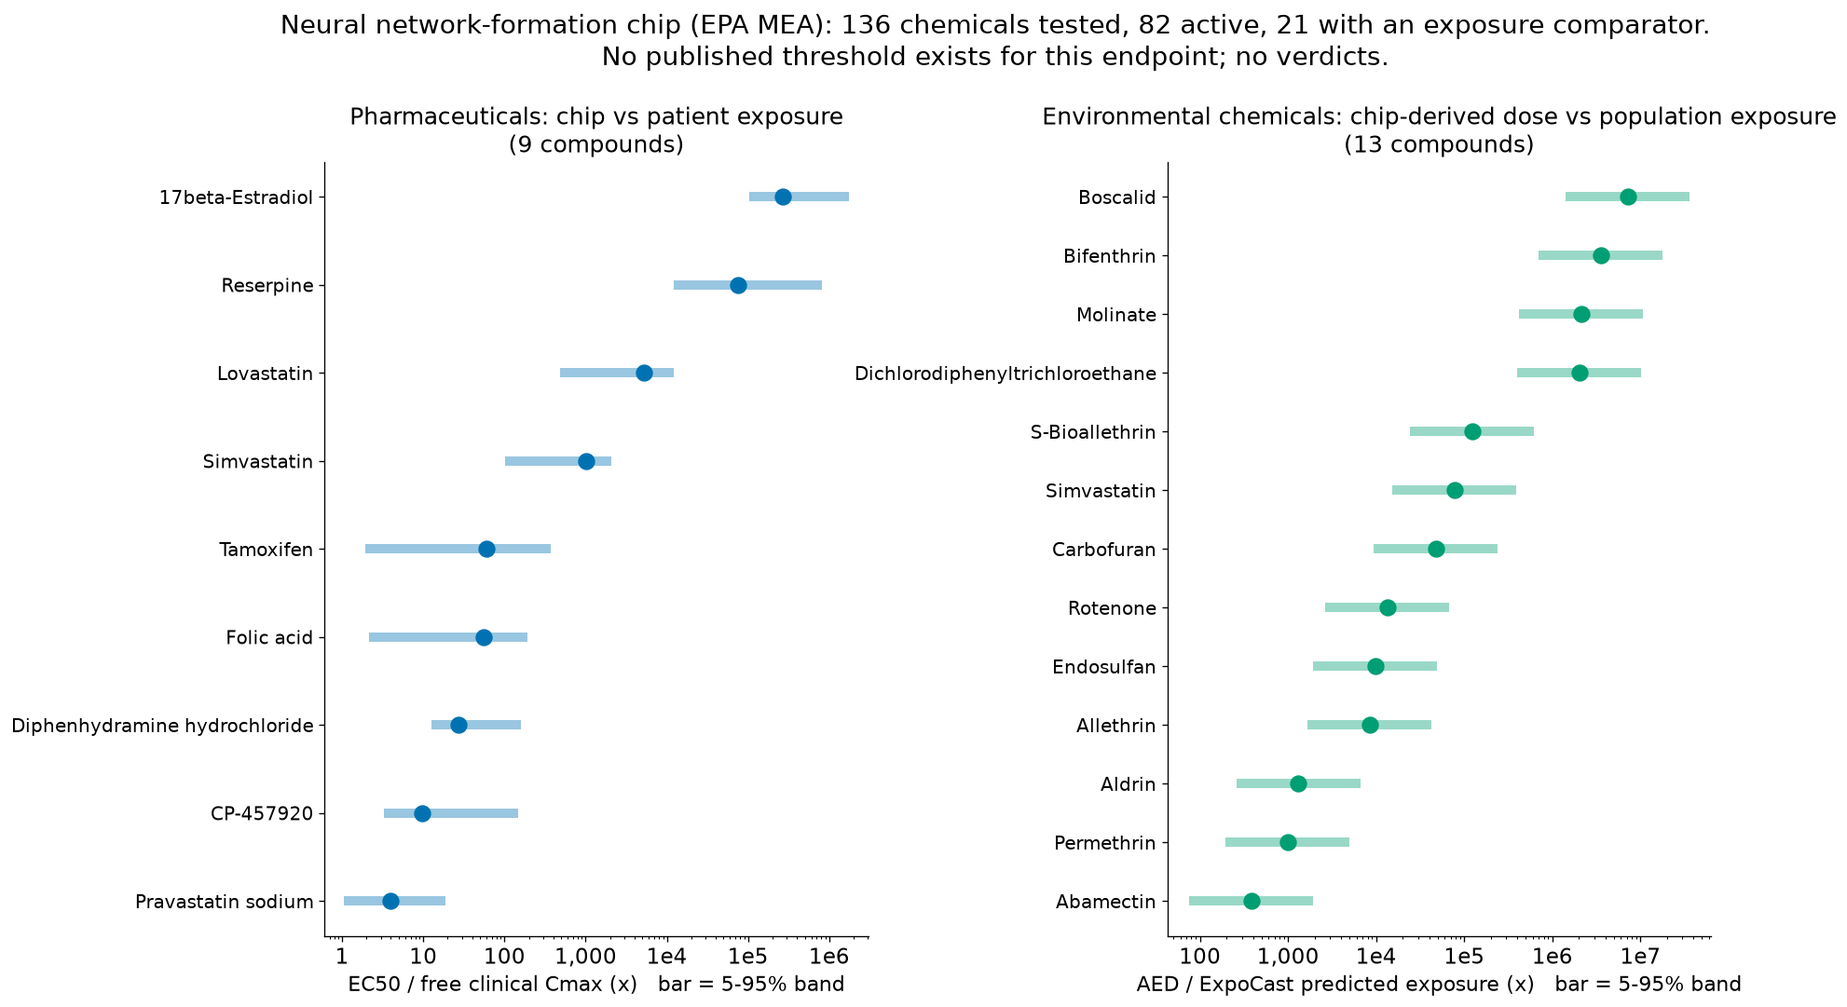
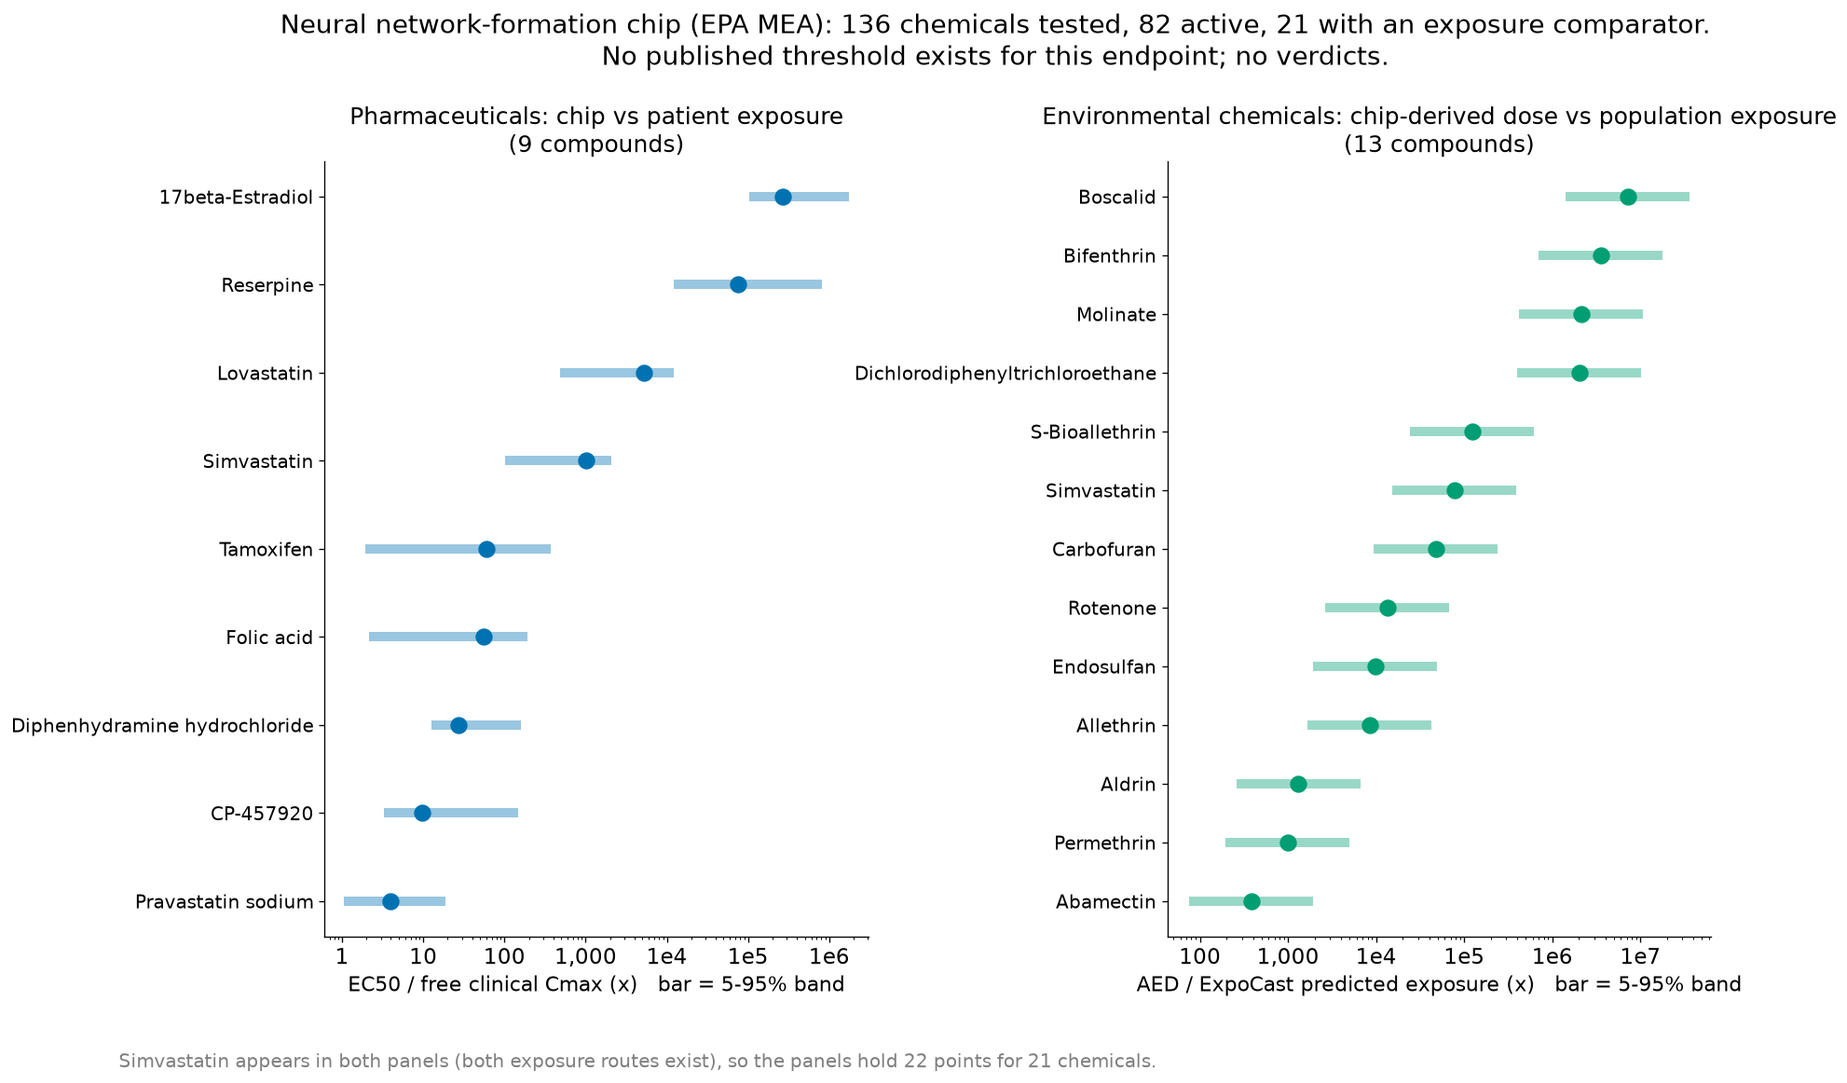
Consistent chip dose across CLI and figures; freeze analysis code
- --compound prints the chip-derived daily dose shown in the dose view and labels
  the literature route as different data
- band-aware dose wording lives in the margin module, shared by CLI and figure
- validation/code_freeze.json fingerprints analysis code that the
  pre-registration describes only in words (values of commit a76e7e9)
- CLI: modes are mutually exclusive, empty names refused, censored readouts
  give a lower-bound dose, ignored doses are reported
- engine rejects values outside their own range and a missing medium fraction

diff --git a/src/figures.py b/src/figures.py
@@ -16,7 +16,7 @@ import numpy as np  # noqa: E402
 import pandas as pd  # noqa: E402
 from sklearn.metrics import roc_curve  # noqa: E402
 
-from . import config, labels  # noqa: E402
+from . import config, labels, margin  # noqa: E402
 
 VERMILLION, BLUE, GREEN, ORANGE, SKY, GREY, BLACK = (
     "#D55E00", "#0072B2", "#009E73", "#E69F00", "#56B4E9", "#7F7F7F", "#000000",
@@ -138,17 +138,6 @@ def pair_view(margins: pd.DataFrame, key_a: str, key_b: str, path: Path) -> Path
     return _save(fig, path)
 
 
-def dose_relation(dose: float, low: float, high: float, prescribed: float) -> str:
-    """Prescribed dose against the chip-derived dose AND its band; the band decides the wording."""
-    if prescribed > high:
-        return f"patients take {prescribed / dose:.0f}x the chip-derived dose (above the whole band)"
-    if prescribed < low:
-        return f"patients take {dose / prescribed:.0f}x less than the chip-derived dose (below the whole band)"
-    side = "less than" if prescribed < dose else "more than"
-    ratio = dose / prescribed if prescribed < dose else prescribed / dose
-    return f"patients take {ratio:.0f}x {side} the point estimate, but inside the band"
-
-
 def dose_view(margins: pd.DataFrame, pairs: pd.DataFrame, key_a: str, key_b: str, path: Path) -> Path:
     """The output in real units: the daily dose at which the chip's toxic concentration is reached,
     next to the dose patients take. Illustrates what the tool returns; it is not the comparative
@@ -168,12 +157,12 @@ def dose_view(margins: pd.DataFrame, pairs: pd.DataFrame, key_a: str, key_b: str
         values += [lo, hi, prescribed]
         ax.plot([lo, hi], [y, y], color=colour, lw=14, alpha=0.3, solid_capstyle="butt")
         ax.plot(dose, y, "o", color=colour, ms=18)
-        ax.annotate(f"chip: harm from ~{_fmt(dose)} mg/day\n(band {_fmt(lo)}-{_fmt(hi)})", (dose, y),
+        ax.annotate(f"chip toxic concentration reached at ~{_fmt(dose)} mg/day\n(band {_fmt(lo)}-{_fmt(hi)})", (dose, y),
                     textcoords="offset points", xytext=(0, 26), ha="center", fontsize=15, color=colour)
         ax.plot(prescribed, y, "D", color=BLACK, ms=16)
         ax.annotate(f"patients: {_fmt(prescribed)} mg/day", (prescribed, y), textcoords="offset points",
                     xytext=(0, -38), ha="center", fontsize=15)
-        ax.annotate(dose_relation(dose, lo, hi, prescribed), (0.99, y + 0.46), xycoords=("axes fraction", "data"),
+        ax.annotate(margin.dose_relation(dose, lo, hi, prescribed), (0.99, y + 0.46), xycoords=("axes fraction", "data"),
                     ha="right", va="center", fontsize=15, color=colour, weight="bold")
 
     names = []
@@ -308,6 +297,11 @@ def neural_figure(neural_margins: pd.DataFrame, n_chemicals: int, n_active: int,
         ax.set_xlabel(xlabel + "   bar = 5-95% band", fontsize=13)
         ax.set_title(f"{title}\n({len(m)} compounds)", fontsize=15)
     n_unique = neural_margins["compound"].nunique()
+    both = sorted(set(neural_margins.loc[neural_margins["route"] == routes[0][0], "compound"])
+                  & set(neural_margins.loc[neural_margins["route"] == routes[1][0], "compound"]))
+    if both:
+        fig.text(0.01, -0.02, f"{', '.join(both)} appears in both panels (both exposure routes exist), so the panels "
+                 f"hold {len(neural_margins)} points for {n_unique} chemicals.", fontsize=12, color=GREY)
     fig.suptitle(f"Neural network-formation chip (EPA MEA): {n_chemicals} chemicals tested, {n_active} active, "
                  f"{n_unique} with an exposure comparator.\nNo published threshold exists for this endpoint; no verdicts.",
                  fontsize=17, y=1.03)

diff --git a/src/compound.py b/src/compound.py
@@ -6,7 +6,6 @@ import numpy as np
 
 from . import config, labels, liver, load, margin, neural, pod
 
-IV_ONLY = "Given intravenously only: the oral dose rule of thumb does not apply."
 NO_EXPOSURE = "No clinical exposure (Cmax) available for this compound - no margin is computed."
 NO_LITERATURE_CONVENTION = (
     "No convention threshold exists for literature in-vitro PODs; see the validation for how this margin "
@@ -35,6 +34,17 @@ def _chip_lines(key: str) -> list[str]:
         "  " + free.line,
         "  " + total.line,
     ]
+    dose = liver.equivalent_dose(inp, key)
+    if np.isfinite(dose["equivalent_dose_mg"]):
+        relation = margin.dose_relation(dose["equivalent_dose_mg"], dose["equivalent_dose_band_low"],
+                                        dose["equivalent_dose_band_high"], dose["clinical_dose_mg"])
+        lines.append(
+            f"  Chip-derived daily dose: the chip's toxic concentration is reached at {dose['equivalent_dose_mg']:,.3g} mg/day "
+            f"(band {dose['equivalent_dose_band_low']:,.3g}-{dose['equivalent_dose_band_high']:,.3g}) against "
+            f"{dose['clinical_dose_mg']:g} mg prescribed: {relation}. ({dose['dose_source']})"
+        )
+    elif row["censored"]:
+        lines.append("  No chip-derived daily dose: no toxicity was seen up to the highest tested concentration.")
     lines += [f"  assumption: {a}" for a in free.assumptions]
     return lines
 
@@ -62,17 +72,22 @@ def _literature_lines(key: str) -> list[str]:
     source = row["pod_sources"][idx] if idx < len(row["pod_sources"]) else "n/a"
     equivalent = row["dose_mg"] * p.margin_total
     return [
-        f"Literature benchmark (Geci et al. 2026): lowest in-vitro POD {row['lowest_pod_uM']:.3g} uM (from {source}); "
+        "Literature benchmark (different data, not the chip: lowest POD across published 2D in-vitro assays, "
+        "Geci et al. 2026). Its numbers differ from the chip's and are shown for comparison.",
+        f"  lowest in-vitro POD {row['lowest_pod_uM']:.3g} uM (from {source}); "
         f"Cmax {row['cmax_uM']:.3g} uM at {row['dose_mg']:g} mg.",
         f"  Margin (total) {margin.fmt_ratio(p.margin_total)}, band {margin.fmt_ratio(p.total_band[0])} to "
         f"{margin.fmt_ratio(p.total_band[1])}; margin (free) {margin.fmt_ratio(p.margin_free)}, band "
         f"{margin.fmt_ratio(p.free_band[0])} to {margin.fmt_ratio(p.free_band[1])}.",
-        f"  Equivalent daily dose (Cmax would reach the POD): {equivalent:,.3g} mg, band "
-        f"{row['dose_mg'] * p.total_band[0]:,.3g}-{row['dose_mg'] * p.total_band[1]:,.3g} mg, "
-        f"against a prescribed {row['dose_mg']:g} mg (linear-PK assumption).",
+        ("  Given intravenously only: no oral equivalent daily dose and no oral dose rule of thumb." if row["iv_only"] else
+         f"  Assay-derived daily dose (Cmax would reach this POD): {equivalent:,.3g} mg, band "
+         f"{row['dose_mg'] * p.total_band[0]:,.3g}-{row['dose_mg'] * p.total_band[1]:,.3g} mg, against "
+         f"{row['dose_mg']:g} mg prescribed: "
+         f"{margin.dose_relation(equivalent, row['dose_mg'] * p.total_band[0], row['dose_mg'] * p.total_band[1], row['dose_mg'])} "
+         "(linear-PK assumption)."),
         "  " + NO_LITERATURE_CONVENTION,
-        "  " + (IV_ONLY if row["iv_only"] else _rule_of_thumb_line(row["dose_mg"], row["logp"])),
-    ] + [f"  assumption: {n}" for n in notes]
+    ] + ([] if row["iv_only"] else ["  " + _rule_of_thumb_line(row["dose_mg"], row["logp"])]) \
+      + [f"  assumption: {n}" for n in notes]
 
 
 def _neural_lines(key: str) -> list[str]:

diff --git a/run_demo.py b/run_demo.py
@@ -170,10 +170,15 @@ def run_readout(args: argparse.Namespace) -> int:
     for threshold in (config.THRESHOLDS["liver_free_375"], config.THRESHOLDS["liver_total_50"]):
         result = margin.compute(inp, threshold)
         print(result.line)
-    if result.equivalent_dose_mg is not None:
+    if args.dose_mg is not None and result.equivalent_dose_mg is None:
+        print(f"No equivalent daily dose: --dose-mg {args.dose_mg:g} is not a usable positive dose, "
+              "or no margin could be computed.")
+    elif result.equivalent_dose_mg is not None:
         lo, hi = result.equivalent_dose_band
-        print(f"Equivalent daily dose: {result.equivalent_dose_mg:,.3g} mg (band {lo:,.3g}-{hi:,.3g} mg) "
-              f"against {args.dose_mg:g} mg (linear PK assumed).")
+        bound = ">" if args.censored else ""
+        note = " (lower bound: no toxicity was seen up to the readout)" if args.censored else ""
+        print(f"Chip-derived daily dose: {bound}{result.equivalent_dose_mg:,.3g} mg (band {bound}{lo:,.3g}-{bound}{hi:,.3g} mg) "
+              f"against {args.dose_mg:g} mg, linear PK assumed{note}.")
     for note in result.assumptions:
         print(f"  assumption: {note}")
     print("Thresholds are Liver-Chip conventions (Ewart et al. 2022); for another organ, read the margin, not the verdict.")
@@ -182,9 +187,10 @@ def run_readout(args: argparse.Namespace) -> int:
 
 def main(argv: list[str] | None = None) -> int:
     parser = argparse.ArgumentParser(description=__doc__.splitlines()[0])
-    parser.add_argument("--compound", help="describe one compound and exit")
-    parser.add_argument("--pair", nargs=2, metavar=("DRUG_A", "DRUG_B"), help="render one extra pair view and exit")
-    parser.add_argument("--readout", type=float, metavar="POD_UM", help="your chip's lowest toxic concentration (uM)")
+    mode = parser.add_mutually_exclusive_group()
+    mode.add_argument("--compound", help="describe one compound and exit")
+    mode.add_argument("--pair", nargs=2, metavar=("DRUG_A", "DRUG_B"), help="render one extra pair view and exit")
+    mode.add_argument("--readout", type=float, metavar="POD_UM", help="your chip's lowest toxic concentration (uM)")
     parser.add_argument("--cmax", type=float, metavar="UM", help="with --readout: clinical total Cmax (uM)")
     parser.add_argument("--fu-plasma", type=float, help="with --readout: fraction unbound in plasma")
     parser.add_argument("--fu-medium", type=float, default=1.0, help="with --readout: fraction unbound in chip medium (default 1)")
@@ -195,13 +201,16 @@ def main(argv: list[str] | None = None) -> int:
     args = parser.parse_args(argv)
     warnings.simplefilter("ignore")
 
+    if args.compound is not None and not args.compound.strip():
+        print("--compound needs a drug name.")
+        return 1
     if args.readout is not None:
         return run_readout(args)
     problems = input_problems()
     if problems:
         print("Input data are missing or changed; run `make data` first:\n  " + "\n  ".join(problems))
         return 2
-    if args.compound:
+    if args.compound is not None:
         print("\n".join(compound.describe(args.compound)))
         return 0
     if args.pair:

diff --git a/src/margin.py b/src/margin.py
@@ -134,6 +134,8 @@ def _bad(value: float | None) -> bool:
 
 def invalid_reason(inp: MarginInput) -> str | None:
     """Why no margin can be computed, in the words a scientist would use; None if inputs are usable."""
+    if inp.fu_medium is None:
+        return "fraction unbound in the test medium is missing (use 1 for nominal = free)"
     if inp.cmax is None or _bad(inp.cmax.point) or _bad(inp.cmax.low) or _bad(inp.cmax.high):
         return "no usable clinical exposure (Cmax); no default is substituted"
     if inp.pod is None or _bad(inp.pod.point) or _bad(inp.pod.low) or _bad(inp.pod.high):
@@ -141,8 +143,11 @@ def invalid_reason(inp: MarginInput) -> str | None:
     for label, q in (("plasma", inp.fu_plasma), ("medium", inp.fu_medium)):
         if q is not None and (_bad(q.low) or _bad(q.high) or q.high > 1.0 or q.low > q.high):
             return f"fraction unbound in {label} must lie in (0, 1]; got {q.low:g}-{q.high:g}"
-    if inp.pod.low > inp.pod.high or inp.cmax.low > inp.cmax.high:
-        return "a range has its low end above its high end"
+    quantities = [inp.pod, inp.cmax, inp.fu_medium] + ([inp.fu_plasma] if inp.fu_plasma is not None else [])
+    for q in quantities:
+        # Relative tolerance: the same published value can be parsed from two cells with different last digits.
+        if _bad(q.point) or q.low > q.high or not (q.low * (1 - 1e-9) <= q.point <= q.high * (1 + 1e-9)):
+            return f"{q.source}: the value {q.point:g} must be positive and lie inside its range {q.low:g}-{q.high:g}"
     return None
 
 
@@ -273,3 +278,22 @@ def compute(inp: MarginInput, threshold: Threshold, rng: np.random.Generator | N
         n_assumptions=len(assumptions),
         assumptions=assumptions,
     )
+
+
+def _times(ratio: float) -> str:
+    return f"{ratio:.1f}x" if ratio < 10 else f"{ratio:.0f}x"
+
+
+def dose_relation(dose: float, low: float, high: float, prescribed: float) -> str:
+    """Prescribed dose against the chip-derived dose AND its band; the band decides the wording."""
+    if not all(np.isfinite(v) and v > 0 for v in (dose, low, high, prescribed)):
+        return "no comparison possible (missing or non-positive dose)"
+    if prescribed > high:
+        return f"patients take {_times(prescribed / dose)} the chip-derived dose (above the whole band)"
+    if prescribed < low:
+        return f"patients take {_times(dose / prescribed)} less than the chip-derived dose (below the whole band)"
+    if np.isclose(prescribed, dose, rtol=0.05):
+        return "patients take about the chip-derived dose (inside the band)"
+    side = "less than" if prescribed < dose else "more than"
+    ratio = dose / prescribed if prescribed < dose else prescribed / dose
+    return f"patients take {_times(ratio)} {side} the point estimate, but inside the band"

diff --git a/src/validate.py b/src/validate.py
@@ -35,6 +35,14 @@ from . import config, load
 
 PREREG = config.VALIDATION / "preregistration.json"
 SPLIT = config.VALIDATION / "split.csv"
+# Added in review round 2: the pre-registration file describes the plan in words, but some of it
+# lives only in code. These fingerprints freeze that code at its state in the pre-registration
+# commit a76e7e9 (verified unchanged when the file was written).
+CODE_FREEZE = config.VALIDATION / "code_freeze.json"
+FROZEN_CODE = {
+    "src/validate.py": ["BOOTSTRAP_SEED", "ARMS", "build_model", "out_of_fold_scores", "group_bootstrap", "ci"],
+    "src/config.py": ["RULE_OF_THUMB_DOSE_MG", "RULE_OF_THUMB_LOGP"],
+}
 
 N_FOLDS = 5
 N_REPEATS = 20
@@ -316,10 +324,34 @@ def preregister(force: bool = False) -> dict:
     return doc
 
 
+def code_fingerprints() -> dict[str, str]:
+    """sha256 of the source text of each frozen constant or function."""
+    import ast
+
+    prints = {}
+    for rel, names in FROZEN_CODE.items():
+        source = (config.ROOT / rel).read_text(encoding="utf-8")
+        for node in ast.parse(source).body:
+            name = None
+            if isinstance(node, ast.Assign) and isinstance(node.targets[0], ast.Name):
+                name = node.targets[0].id
+            elif isinstance(node, ast.FunctionDef):
+                name = node.name
+            if name in names:
+                prints[f"{rel}:{name}"] = sha256_text(ast.get_source_segment(source, node))
+    return prints
+
+
 def load_verified_split(table: pd.DataFrame) -> pd.DataFrame:
-    """Recompute the split AND the analysis plan; both must equal the pre-registered files."""
-    if not PREREG.exists():
-        raise SystemExit("no pre-registration found; run `python -m src.validate --preregister` and commit it first")
+    """Recompute the split, the analysis plan and the frozen code; all must match the files."""
+    for required in (PREREG, SPLIT, CODE_FREEZE):
+        if not required.exists():
+            raise SystemExit(f"{required.name} is missing; the pre-registered validation cannot run without it")
+    frozen = json.loads(CODE_FREEZE.read_text(encoding="utf-8"))["fingerprints"]
+    drifted_code = sorted(k for k in frozen.keys() | code_fingerprints().keys()
+                          if frozen.get(k) != code_fingerprints().get(k))
+    if drifted_code:
+        raise SystemExit(f"code frozen at pre-registration has changed: {', '.join(drifted_code)}; refusing to evaluate")
     doc = json.loads(PREREG.read_text(encoding="utf-8"))
     frame = split_frame(table)
     text = split_csv_text(frame)

diff --git a/tests/test_pairs_and_outputs.py b/tests/test_pairs_and_outputs.py
@@ -4,7 +4,7 @@ import time
 
 import pandas as pd
 
-from src import compound, config, figures, liver, load
+from src import compound, config, figures, liver, load, margin
 
 PROBABILITY_WORDS = ("probability", "proba", "score")
 
@@ -78,11 +78,11 @@ def test_neural_chemicals_are_found_by_name():
 
 
 def test_dose_relation_respects_the_band():
-    assert "above the whole band" in figures.dose_relation(16.1, 16.1, 61.7, 600)
+    assert "above the whole band" in margin.dose_relation(16.1, 16.1, 61.7, 600)
     # pioglitazone: 45 mg lies inside 39.6-291, so no "below" claim without the qualifier
-    text = figures.dose_relation(90.4, 39.6, 291, 45)
+    text = margin.dose_relation(90.4, 39.6, 291, 45)
     assert "inside the band" in text and "whole band" not in text
-    assert "below the whole band" in figures.dose_relation(90, 60, 200, 10)
+    assert "below the whole band" in margin.dose_relation(90, 60, 200, 10)
 
 
 def test_dose_view_renders_and_refuses_pairs_without_a_dose(tmp_path):
@@ -93,3 +93,25 @@ def test_dose_view_renders_and_refuses_pairs_without_a_dose(tmp_path):
     import pytest
     with pytest.raises(ValueError):
         figures.dose_view(margins, pairs, "ambrisentan", "sitaxsentan", tmp_path / "x.png")
+
+
+def test_compound_run_shows_the_same_chip_dose_as_the_dose_view():
+    table = liver.margin_table().set_index("key")
+    for key in ("troglitazone", "pioglitazone"):
+        text = "\n".join(compound.describe(key))
+        assert f"reached at {table.at[key, 'equivalent_dose_mg']:,.3g} mg/day" in text
+        assert "different data, not the chip" in text
+
+
+def test_empty_or_combined_cli_modes_are_refused(capsys):
+    import run_demo
+    import pytest
+    assert run_demo.main(["--compound", ""]) == 1
+    with pytest.raises(SystemExit):
+        run_demo.main(["--compound", "x", "--pair", "a", "b"])
+
+
+def test_censored_readout_dose_is_a_lower_bound(capsys):
+    import run_demo
+    run_demo.main(["--readout", "12", "--cmax", "0.8", "--dose-mg", "100", "--censored"])
+    assert "Chip-derived daily dose: >" in capsys.readouterr().out

diff --git a/tests/test_margin.py b/tests/test_margin.py
@@ -122,3 +122,18 @@ def test_both_donor_rule_matches_published_column():
     assert pod.combine_donors([0.03, 0.1], [False, False]) == (0.03, False)
     assert pod.combine_donors([3.0, 10.0], [True, True]) == (10.0, True)
     assert pod.combine_donors([7.0, 15.0], [True, False]) == (15.0, False)
+
+
+def test_point_outside_its_own_range_or_missing_medium_fu_gives_no_margin():
+    bad = margin.MarginInput("x", margin.Quantity(1e9, 1.0, 2.0, "pod"), margin.Quantity.exact(1.0, "cmax"),
+                             margin.Quantity.exact(0.1, "fu"), margin.Quantity.exact(1.0, "m"))
+    assert margin.compute(bad, FREE_375).verdict == margin.NO_MARGIN
+    missing = _input()
+    missing.fu_medium = None
+    assert margin.compute(missing, FREE_375).verdict == margin.NO_MARGIN
+
+
+def test_dose_relation_wording():
+    assert "1.4x more than the point estimate" in margin.dose_relation(10, 5, 20, 14)
+    assert "about the chip-derived dose" in margin.dose_relation(10, 5, 20, 10)
+    assert "no comparison possible" in margin.dose_relation(10, 5, 20, 0)

diff --git a/tests/test_validation.py b/tests/test_validation.py
@@ -66,3 +66,20 @@ def test_changed_analysis_plan_is_refused(tmp_path, monkeypatch):
         assert "primary_comparison" in str(exc)
     else:
         raise AssertionError("a changed plan must be refused")
+
+
+def test_code_frozen_at_preregistration_is_unchanged():
+    frozen = json.loads(validate.CODE_FREEZE.read_text())
+    assert frozen["commit"] == "a76e7e9"
+    assert frozen["fingerprints"] == validate.code_fingerprints()
+
+
+def test_changed_frozen_code_is_refused(monkeypatch):
+    real = validate.code_fingerprints()
+    monkeypatch.setattr(validate, "code_fingerprints", lambda: {**real, "src/validate.py:BOOTSTRAP_SEED": "changed"})
+    try:
+        validate.load_verified_split(validate.benchmark_table())
+    except SystemExit as exc:
+        assert "BOOTSTRAP_SEED" in str(exc)
+    else:
+        raise AssertionError("changed frozen code must be refused")

diff --git a/src/labels.py b/src/labels.py
@@ -27,5 +27,10 @@ def dilirank_label(name: str) -> ClinicalLabel:
         return ClinicalLabel(False, name, "", None, NOT_FOUND)
     row = hit.iloc[0]
     severity = int(row["severity"]) if str(row["severity"]).isdigit() else None
-    text = f"DILIrank 2.0: {row['label']} (severity class {row['severity']}, {row['LabelSection']})"
+    section = str(row["LabelSection"])
+    if section.strip().lower() == "no match":
+        detail = f"severity class {row['severity']}; no matching liver text in the drug label, as published in DILIrank"
+    else:
+        detail = f"severity class {row['severity']}, {section}"
+    text = f"DILIrank 2.0: {row['label']} ({detail})"
     return ClinicalLabel(True, row["compound"], row["label"], severity, text)

diff --git a/src/load.py b/src/load.py
@@ -23,6 +23,7 @@ ALIASES = {
     "sitaxentan": "sitaxsentan",
     "beta-estradiol": "estradiol",
     "17beta-estradiol": "estradiol",
+    "paracetamol": "acetaminophen",
 }
 
 

diff --git a/README.md b/README.md
@@ -14,7 +14,7 @@ The output is a ratio against patient exposure or a daily dose in mg, never a 0-
 ```bash
 git clone https://github.com/millerandmuller/chip2dose && cd chip2dose
 make            # creates .venv (Python 3.11), downloads + verifies data, writes results/
-make test       # 44 tests
+make test       # 51 tests
 ```
 
 A full `make` takes about 2-3 minutes on an idle laptop CPU and up to ~10 minutes on a busy one; the
